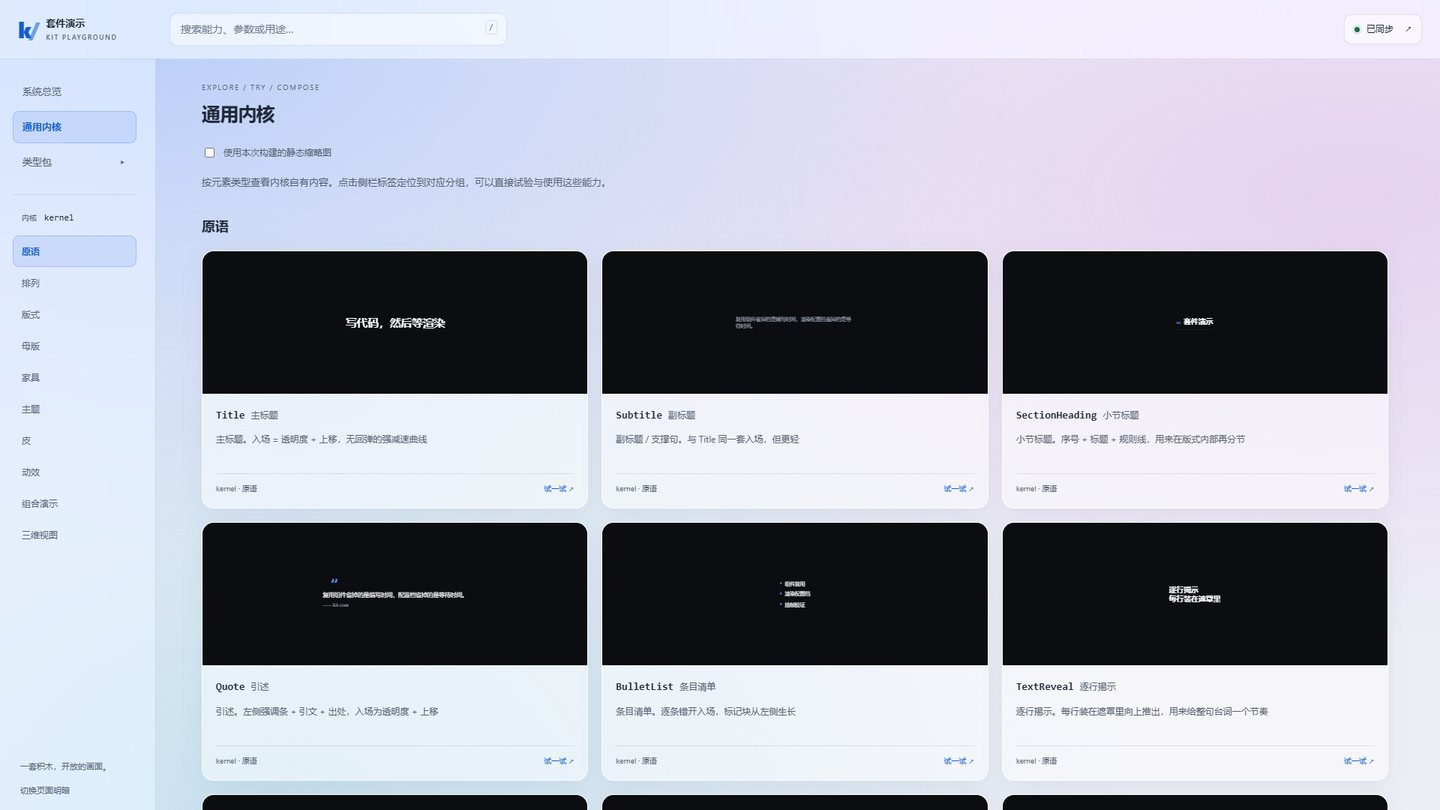
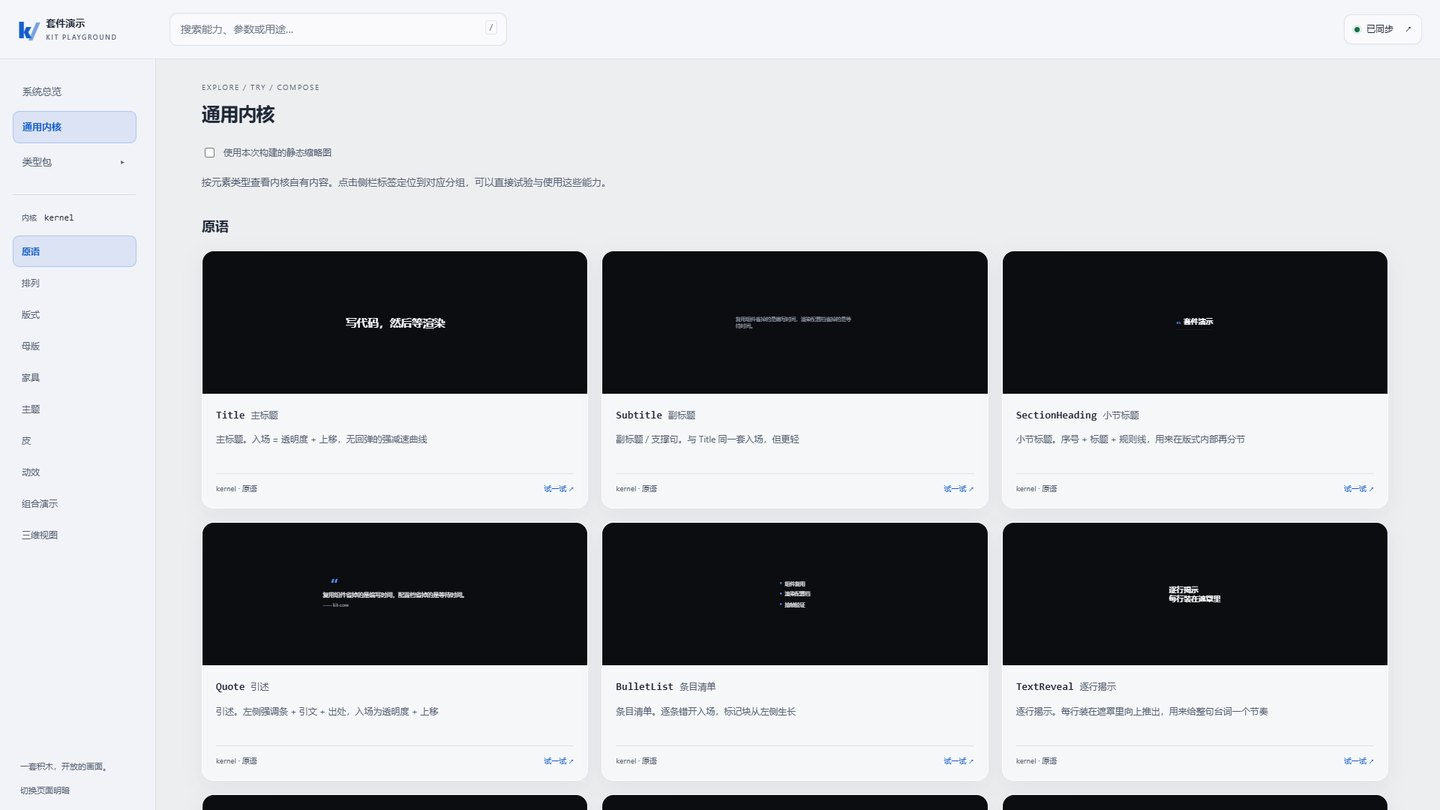
README 配图跟随新配色重拍
浅色底改中性灰、概览页「如何组合」改为脚注后，原来两张截图已经过期（底色偏紫、脚注还是第三张卡）。

顺带修掉拍图脚本的一个真 bug：原先按坐标（y>900 且 x<400）找播放按钮，
1920×1080 下侧栏底部「切换页面明暗」也落在同一片区域，按钮循环先命中它，
拍出来是暗色页面 —— 上一版那张工作台图其实就拍错了，只是当时没人看出。
改成按 .play 选择器点击。

diff --git a/README.md b/README.md
@@ -4,7 +4,7 @@
 
 ![展示页总览](media/showcase-overview.jpg)
 
-*展示页总览：侧栏是职责导航，中间两个入口分别是内核与类型包。这个页面由套件源码构建，不是画的。*
+*展示页总览：侧栏是职责导航，中间两个入口分别是内核与类型包，下面是组合关系。这个页面由套件源码构建，不是画的。*
 
 ## 能力
 
